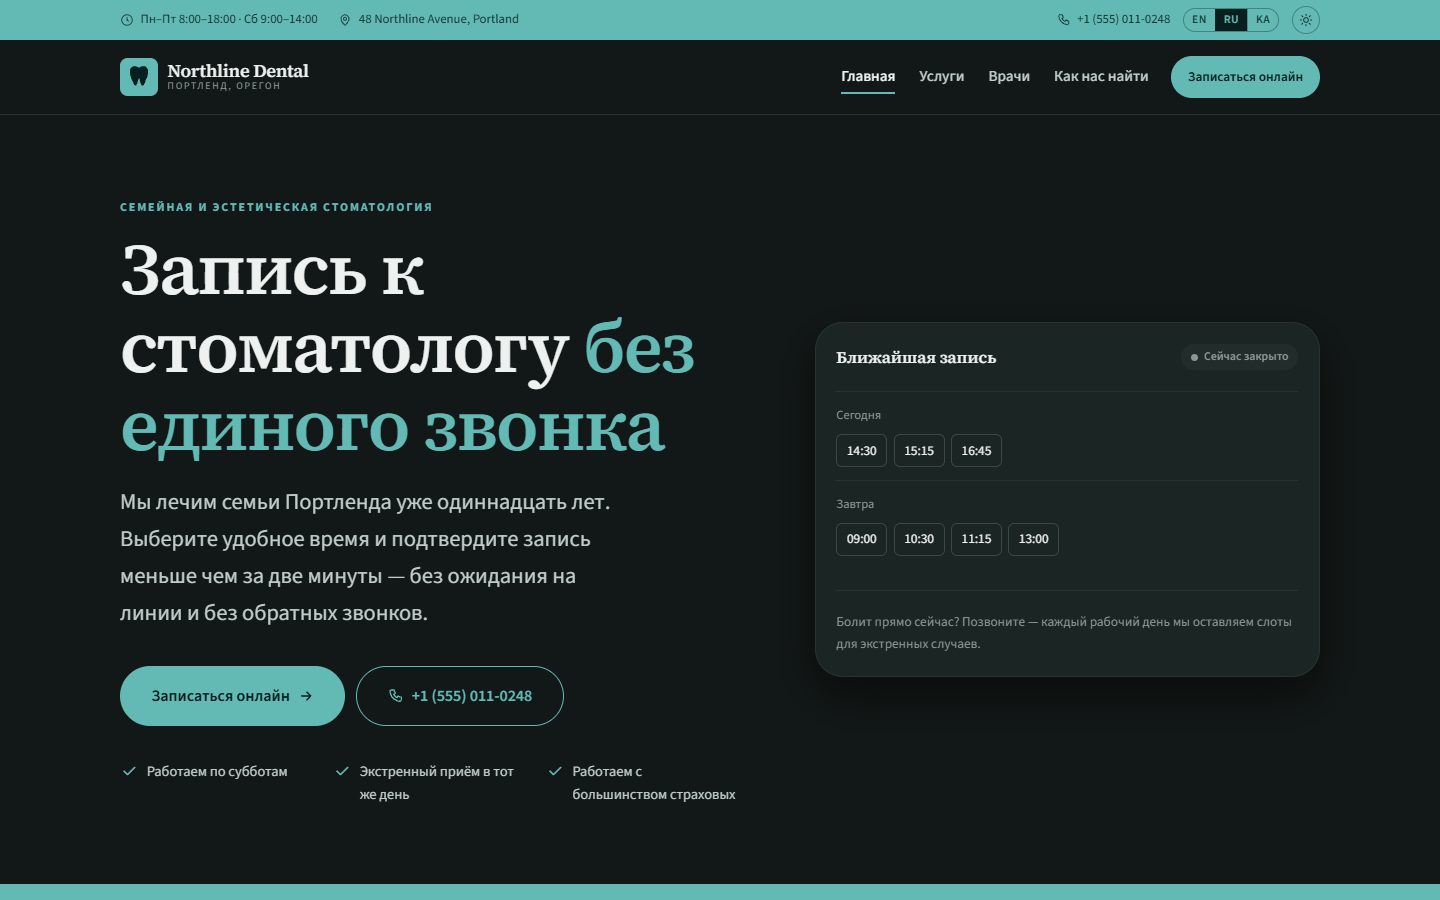
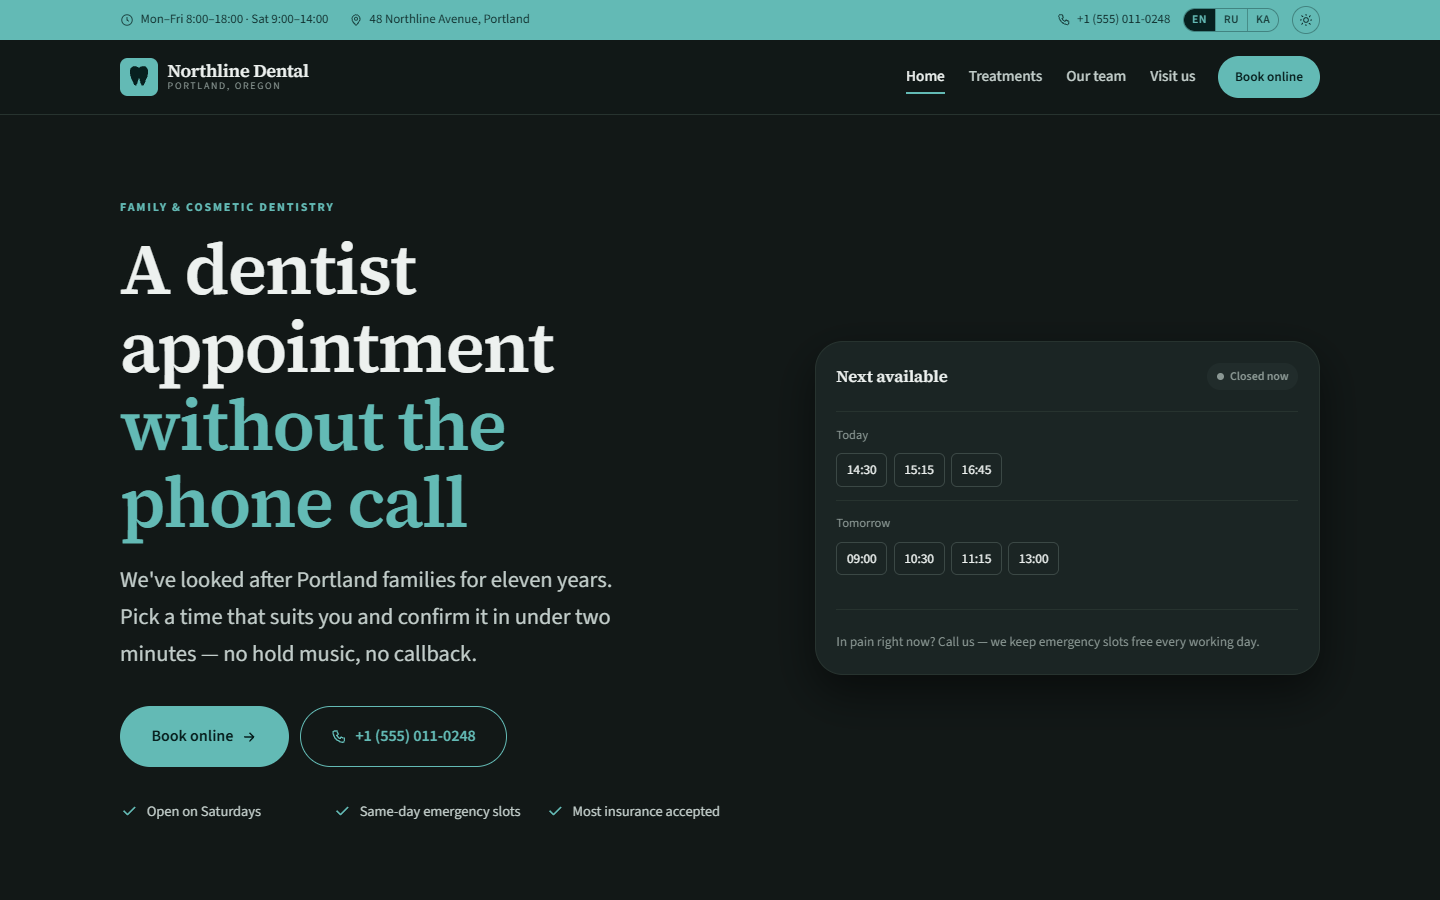
Site files, README and preview

diff --git a/booking.html b/booking.html
@@ -22,7 +22,7 @@
   var p = location.search.match(/[?&]lang=([a-z]{2})/i);
   if (p && langs.indexOf(p[1].toLowerCase()) > -1) lang = p[1].toLowerCase();
   if (!lang) { try { var s = localStorage.getItem('nd-lang'); if (langs.indexOf(s) > -1) lang = s; } catch (e) {} }
-  if (!lang) { var n = (navigator.language || 'en').toLowerCase(); lang = n.indexOf('ru') === 0 ? 'ru' : (n.indexOf('ka') === 0 ? 'ka' : 'en'); }
+  if (!lang) { lang = 'en'; }
   d.setAttribute('data-lang', lang);
   if (lang !== 'en') { d.className += ' i18n-pending'; setTimeout(function () { d.classList.remove('i18n-pending'); }, 1200); }
   try { var t = localStorage.getItem('nd-theme'); if (t) d.setAttribute('data-theme', t); } catch (e) {}

diff --git a/contact.html b/contact.html
@@ -22,7 +22,7 @@
   var p = location.search.match(/[?&]lang=([a-z]{2})/i);
   if (p && langs.indexOf(p[1].toLowerCase()) > -1) lang = p[1].toLowerCase();
   if (!lang) { try { var s = localStorage.getItem('nd-lang'); if (langs.indexOf(s) > -1) lang = s; } catch (e) {} }
-  if (!lang) { var n = (navigator.language || 'en').toLowerCase(); lang = n.indexOf('ru') === 0 ? 'ru' : (n.indexOf('ka') === 0 ? 'ka' : 'en'); }
+  if (!lang) { lang = 'en'; }
   d.setAttribute('data-lang', lang);
   if (lang !== 'en') { d.className += ' i18n-pending'; setTimeout(function () { d.classList.remove('i18n-pending'); }, 1200); }
   try { var t = localStorage.getItem('nd-theme'); if (t) d.setAttribute('data-theme', t); } catch (e) {}

diff --git a/services.html b/services.html
@@ -22,7 +22,7 @@
   var p = location.search.match(/[?&]lang=([a-z]{2})/i);
   if (p && langs.indexOf(p[1].toLowerCase()) > -1) lang = p[1].toLowerCase();
   if (!lang) { try { var s = localStorage.getItem('nd-lang'); if (langs.indexOf(s) > -1) lang = s; } catch (e) {} }
-  if (!lang) { var n = (navigator.language || 'en').toLowerCase(); lang = n.indexOf('ru') === 0 ? 'ru' : (n.indexOf('ka') === 0 ? 'ka' : 'en'); }
+  if (!lang) { lang = 'en'; }
   d.setAttribute('data-lang', lang);
   if (lang !== 'en') { d.className += ' i18n-pending'; setTimeout(function () { d.classList.remove('i18n-pending'); }, 1200); }
   try { var t = localStorage.getItem('nd-theme'); if (t) d.setAttribute('data-theme', t); } catch (e) {}

diff --git a/index.html b/index.html
@@ -33,8 +33,7 @@
     if (p && langs.indexOf(p[1].toLowerCase()) > -1) lang = p[1].toLowerCase();
     if (!lang) { try { var s = localStorage.getItem('nd-lang'); if (langs.indexOf(s) > -1) lang = s; } catch (e) {} }
     if (!lang) {
-      var n = (navigator.language || 'en').toLowerCase();
-      lang = n.indexOf('ru') === 0 ? 'ru' : (n.indexOf('ka') === 0 ? 'ka' : 'en');
+      lang = 'en';
     }
     d.setAttribute('data-lang', lang);
     if (lang !== 'en') {
